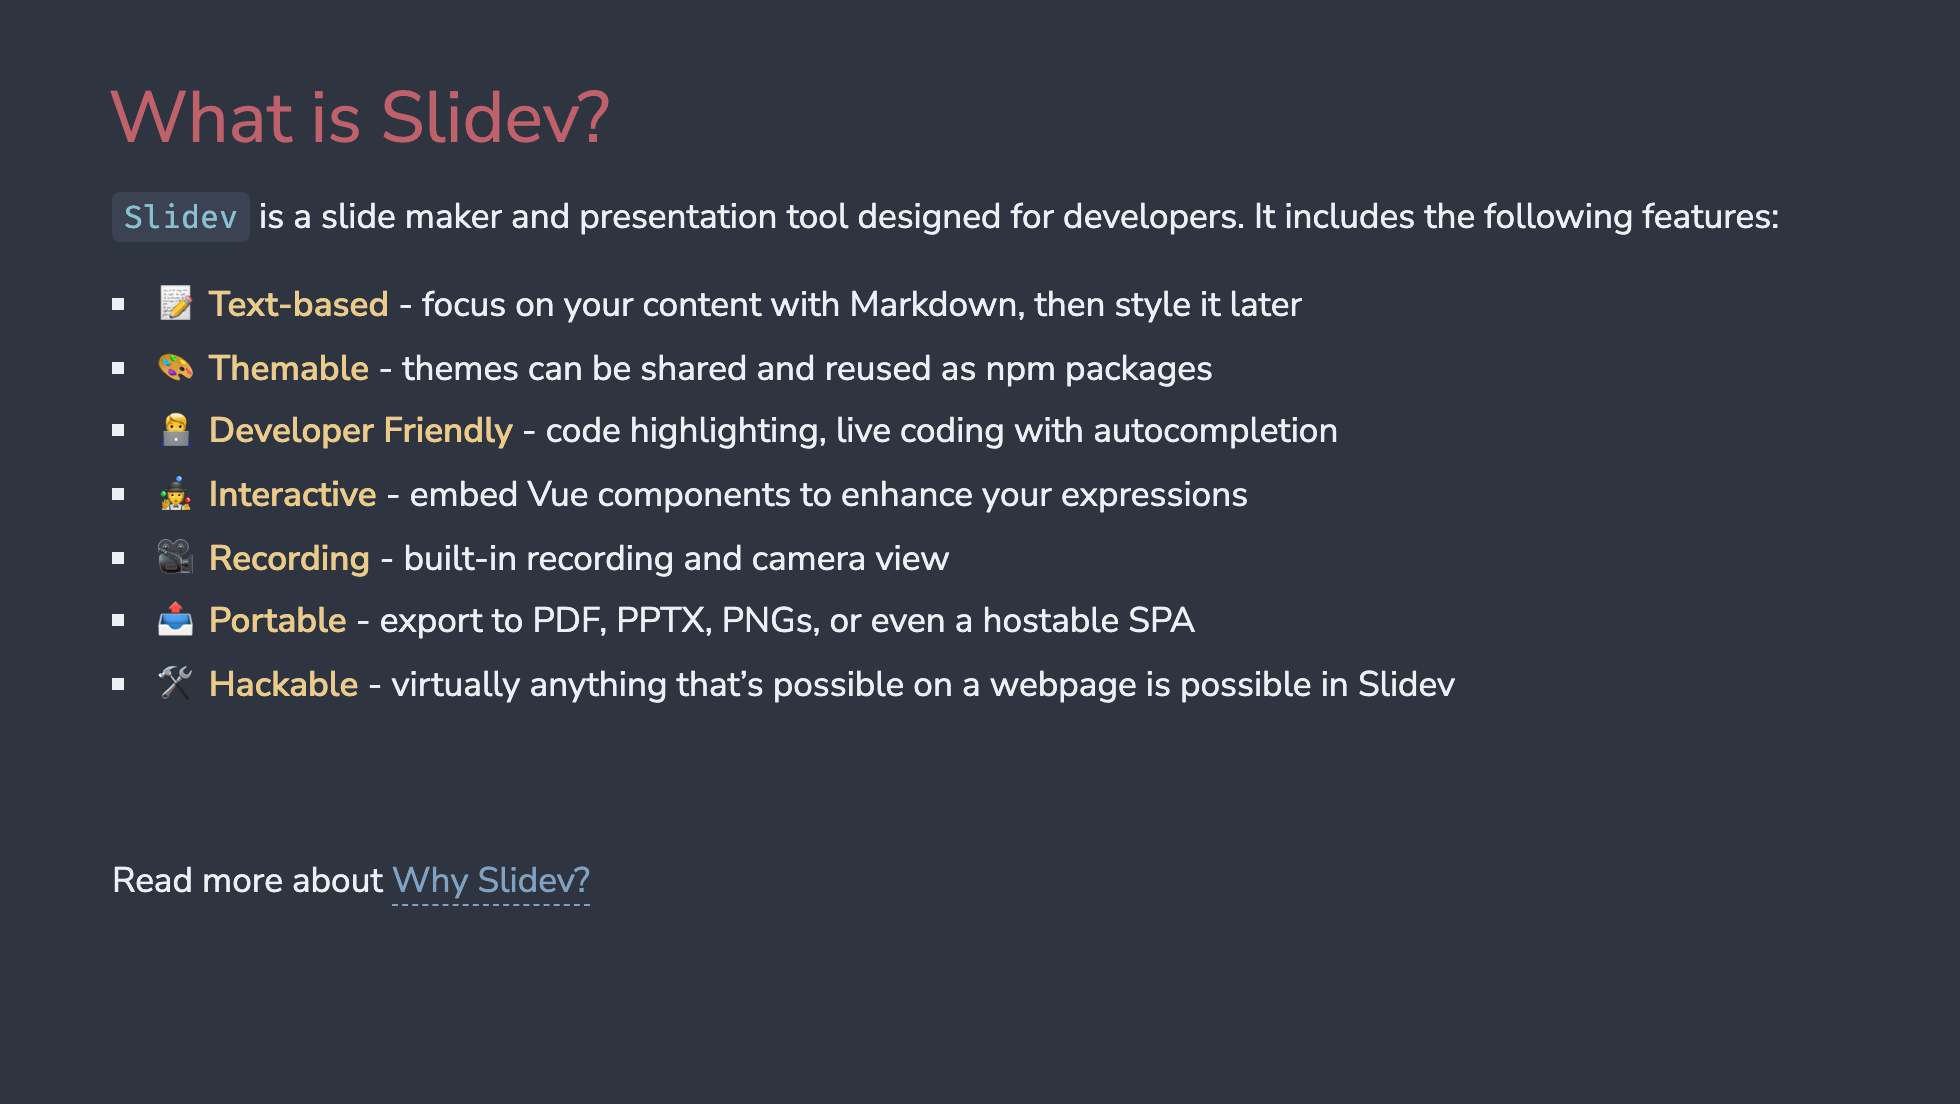
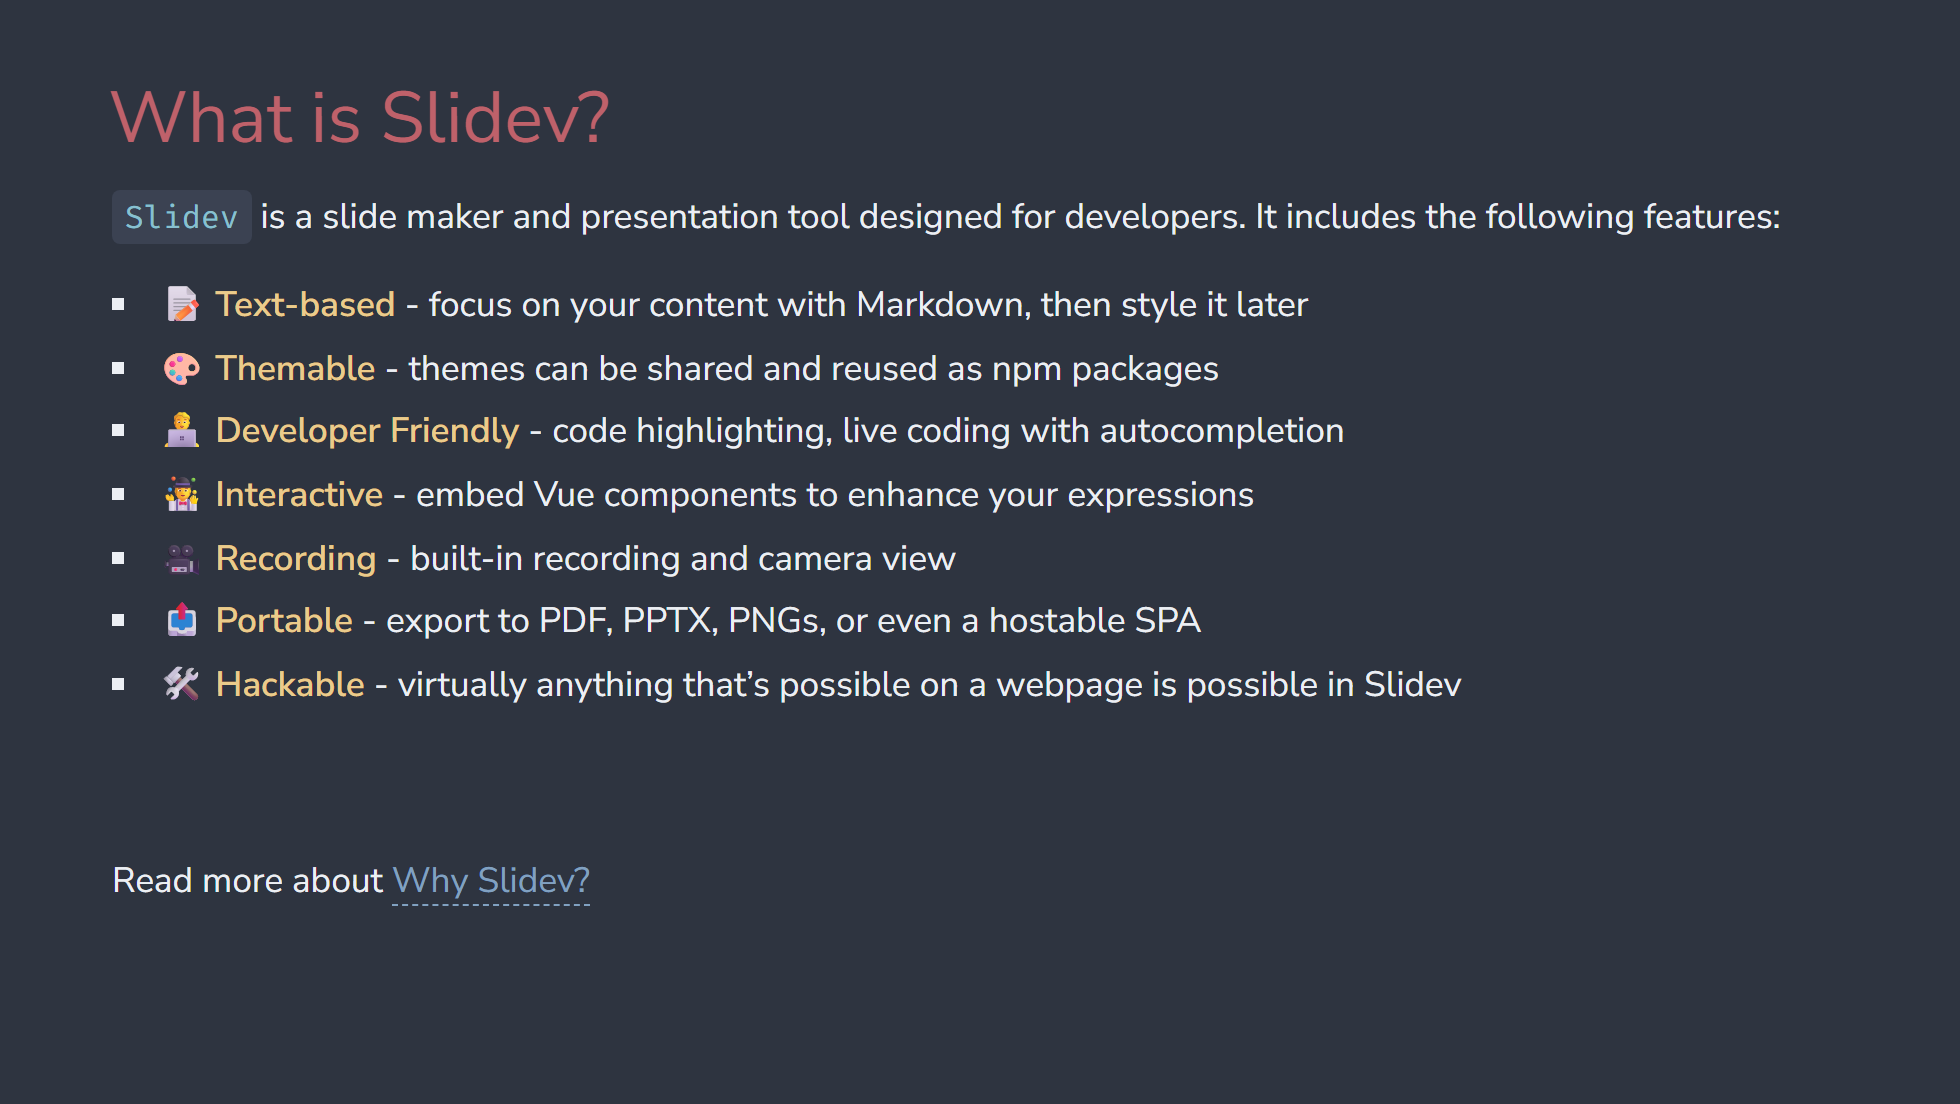
docs: regenerate example screenshots and reference all layouts in README

diff --git a/README.md b/README.md
@@ -21,7 +21,6 @@ Learn more about [how to use a theme](https://sli.dev/guide/theme-addon#use-them
 ![Slide 3](example-export/3.png)
 ![Slide 4](example-export/4.png)
 ![Slide 5](example-export/5.png)
-![Slide 6](example-export/6.png)
 
 ## Layouts
 
@@ -35,13 +34,20 @@ This theme uses Slidev's built-in layouts and styles them with the Nord palette 
 
 Other built-in layouts (`two-cols`, `image-right`, `center`, ...) work as normal. See `example.md` for usage.
 
+![Section](example-export/7.png)
+![Fact](example-export/8.png)
+![Statement](example-export/9.png)
+![Quote](example-export/10.png)
+![Two columns](example-export/11.png)
+![Image right](example-export/12.png)
+
 ## Components
 
 This theme provides the following components:
 
 - NordBadge : A button-esque badge component using the Nord pallet.
 
-![Slide 6](example-export/6.png)
+![NordBadge](example-export/6.png)
 
 
 ## Contributing
